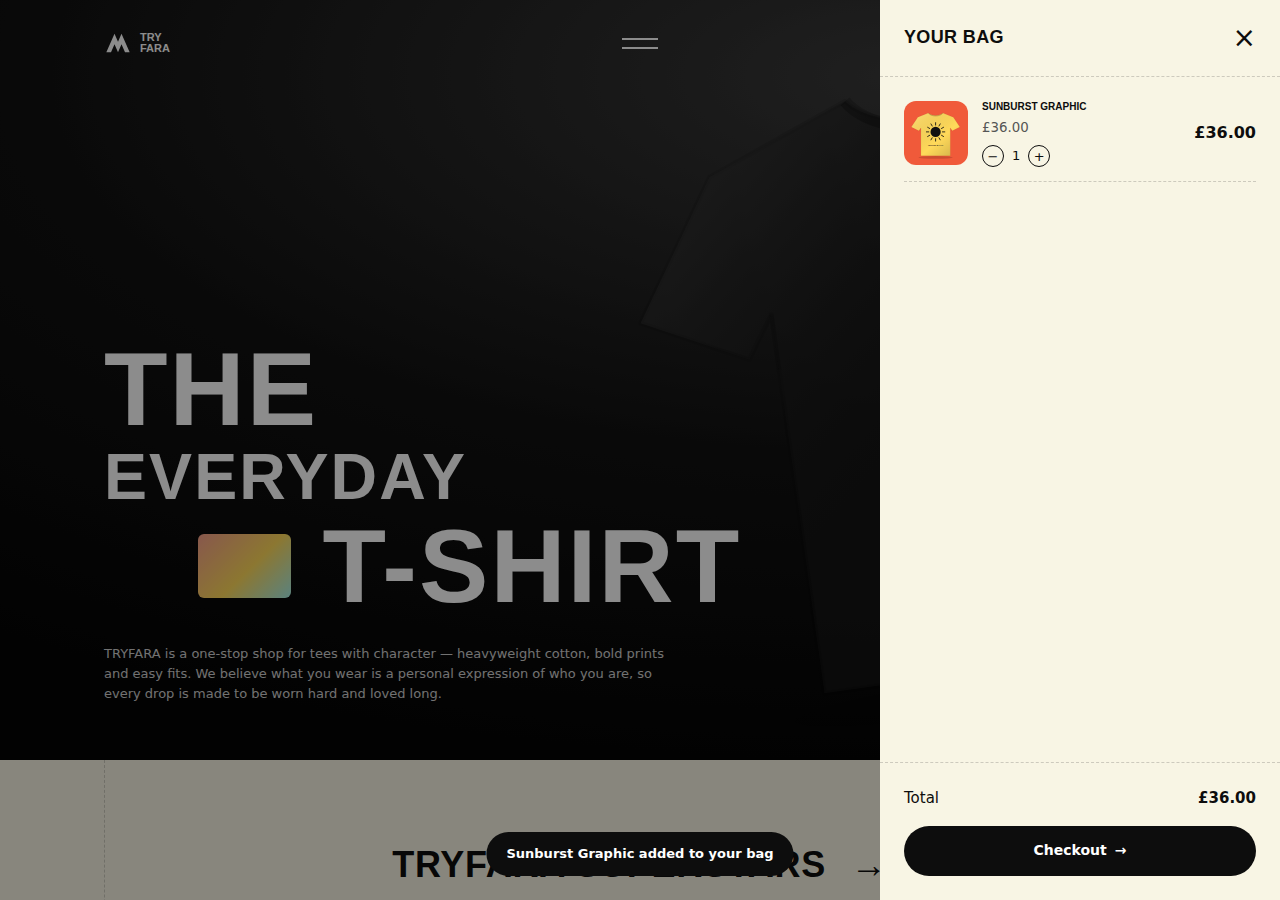
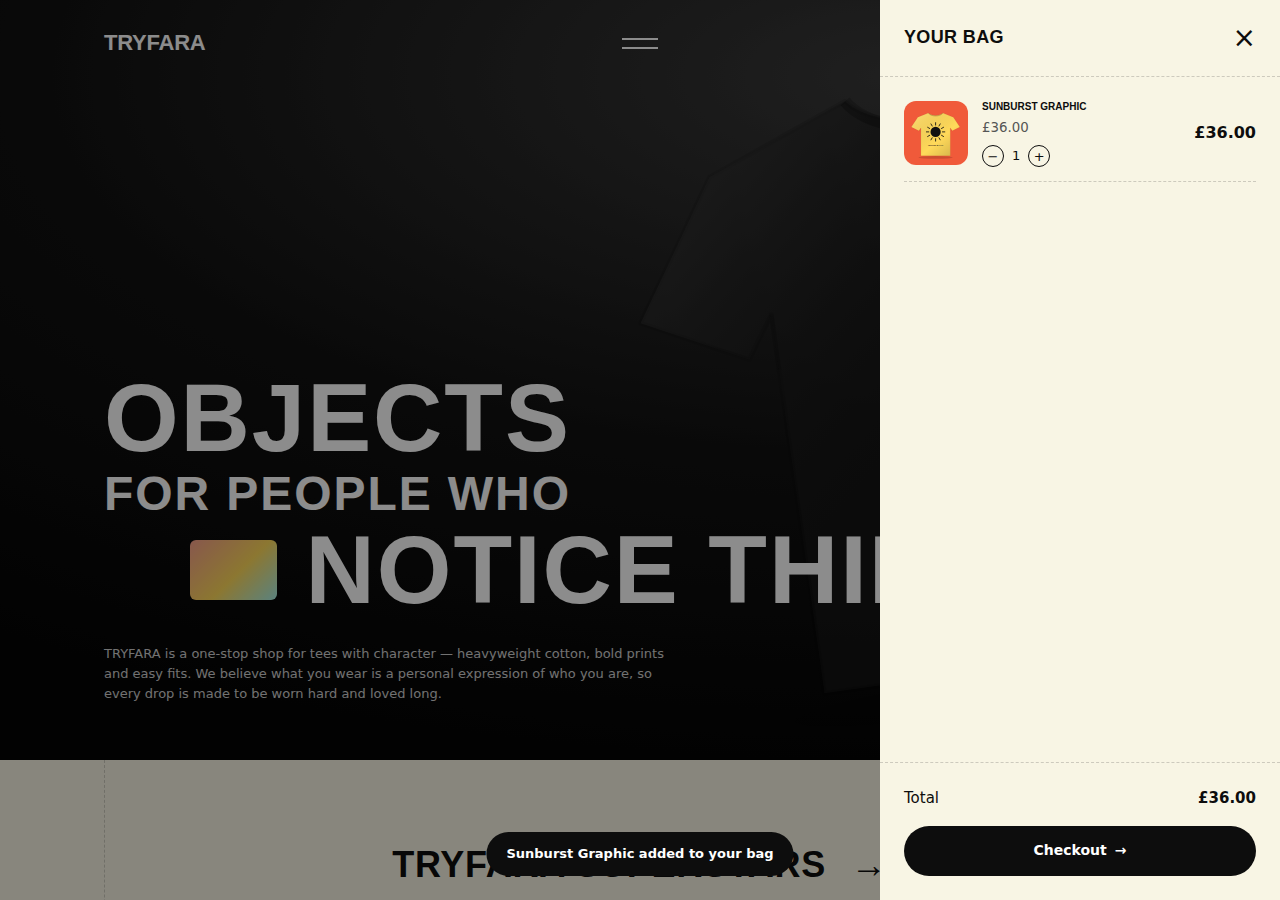
Add TRYFARA wordmark and slogan
Hero headline is now "Objects for people who notice things.", the logo
uses the extended bold wordmark, and the slogan appears in the page title,
meta description and footer.

Claude-Session: https://claude.ai/code/session_01LQ8kKXpj9VvXADPESXt4dW

Changed region(s): [[0.0625, 0.3733, 0.6875, 0.6844], [0.0625, 0.0311, 0.1562, 0.0622]]

diff --git a/index.html b/index.html
@@ -3,11 +3,11 @@
 <head>
   <meta charset="utf-8" />
   <meta name="viewport" content="width=device-width, initial-scale=1" />
-  <title>TRYFARA — T-Shirts With Character</title>
-  <meta name="description" content="TRYFARA makes bold, soft, everyday t-shirts. Shop graphic tees, essentials and limited drops." />
+  <title>TRYFARA — Objects for people who notice things.</title>
+  <meta name="description" content="TRYFARA — Objects for people who notice things. Shop graphic tees, essentials and limited drops." />
   <link rel="preconnect" href="https://fonts.googleapis.com" />
   <link rel="preconnect" href="https://fonts.gstatic.com" crossorigin />
-  <link href="https://fonts.googleapis.com/css2?family=Syncopate:wght@400;700&family=Inter:wght@400;500;600&display=swap" rel="stylesheet" />
+  <link href="https://fonts.googleapis.com/css2?family=Archivo:wdth,wght@125,800&family=Syncopate:wght@400;700&family=Inter:wght@400;500;600&display=swap" rel="stylesheet" />
   <link rel="stylesheet" href="styles.css" />
 </head>
 <body>
@@ -16,8 +16,7 @@
   <header class="hero" id="top">
     <nav class="nav">
       <a href="#top" class="logo" aria-label="TRYFARA home">
-        <svg viewBox="0 0 24 24" aria-hidden="true"><path d="M2 20 9 4l3 7 3-7 7 16h-4l-3-7-3 7-3-7-3 7z"/></svg>
-        <span>TRY<br />FARA</span>
+        TRYFARA
       </a>
 
       <button class="burger" aria-label="Open menu" aria-expanded="false" aria-controls="menu">
@@ -48,9 +47,9 @@
 
     <div class="hero-content">
       <h1 class="display hero-title">
-        <span class="l1">The</span>
-        <span class="l2">Everyday</span>
-        <span class="l3"><i class="hero-chip" aria-hidden="true"></i>T-Shirt</span>
+        <span class="l1">Objects</span>
+        <span class="l2">for people who</span>
+        <span class="l3"><i class="hero-chip" aria-hidden="true"></i>notice things.</span>
       </h1>
       <div class="hero-foot">
         <p>TRYFARA is a one-stop shop for tees with character — heavyweight cotton, bold prints and easy fits.
@@ -166,7 +165,7 @@
       <p>Find the tee that feels like you. New drops every month, shipped from our studio to your door.</p>
       <a href="#lookbook" class="start">Get Started <span class="ring" aria-hidden="true">→</span></a>
       <div class="footer-bottom">
-        <span>© <span id="year"></span> TRYFARA</span>
+        <span><strong class="wordmark">TRYFARA</strong> Objects for people who notice things. © <span id="year"></span></span>
         <nav>
           <a href="#superstars">Bestsellers</a>
           <a href="#collection">Collection</a>

diff --git a/styles.css b/styles.css
@@ -88,8 +88,12 @@ img, svg { display: block; max-width: 100%; }
   max-width: var(--wrap); width: 100%; margin: 0 auto; padding: 24px;
   display: grid; grid-template-columns: 1fr auto 1fr; align-items: center;
 }
-.logo { display: flex; align-items: center; gap: 8px; font-family: var(--display); font-weight: 700; font-size: 11px; line-height: 1; }
-.logo svg { width: 28px; height: 28px; fill: #fff; }
+.logo, .wordmark {
+  font-family: "Archivo", "Arial Black", sans-serif; font-weight: 800; font-stretch: 125%;
+  letter-spacing: -.01em; line-height: 1;
+}
+.logo { font-size: 22px; justify-self: start; }
+.wordmark { color: #fff; margin-right: 10px; }
 .burger { justify-self: center; display: grid; gap: 7px; padding: 10px; }
 .burger span { display: block; width: 36px; height: 2px; background: #fff; transition: transform .3s; }
 .burger[aria-expanded="true"] span:first-child { transform: translateY(4.5px) rotate(45deg); }
@@ -131,9 +135,9 @@ img, svg { display: block; max-width: 100%; }
   position: relative; z-index: 2; margin-top: auto;
   max-width: var(--wrap); width: 100%; margin-left: auto; margin-right: auto; padding: 0 24px 56px;
 }
-.hero-title { font-size: clamp(40px, 8.4vw, 104px); display: grid; gap: .08em; margin-bottom: 28px; }
+.hero-title { font-size: clamp(34px, 7.6vw, 96px); display: grid; gap: .08em; margin-bottom: 28px; }
 .hero-title span { display: block; }
-.hero-title .l2 { font-size: .62em; }
+.hero-title .l2 { font-size: .5em; }
 .hero-title .l3 { padding-left: .9em; display: flex; align-items: center; gap: .3em; }
 .hero-chip {
   display: inline-block; width: .9em; height: .62em; border-radius: 6px; flex: none;
@@ -306,6 +310,7 @@ img, svg { display: block; max-width: 100%; }
   .nav { padding: 18px 16px; }
   .search { display: none; }
   .hero { min-height: 640px; }
+  .logo { font-size: 18px; }
   .hero-art { width: 110vw; right: -30%; top: 8%; opacity: .55; }
   .hero-content { padding: 0 16px 40px; }
   .hero-foot { flex-direction: column; align-items: flex-start; }
